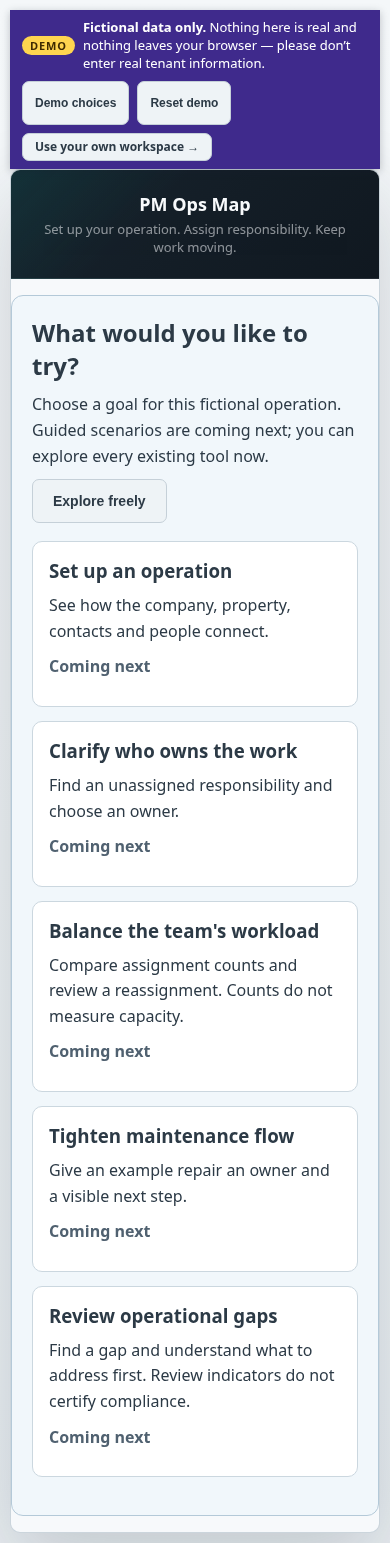
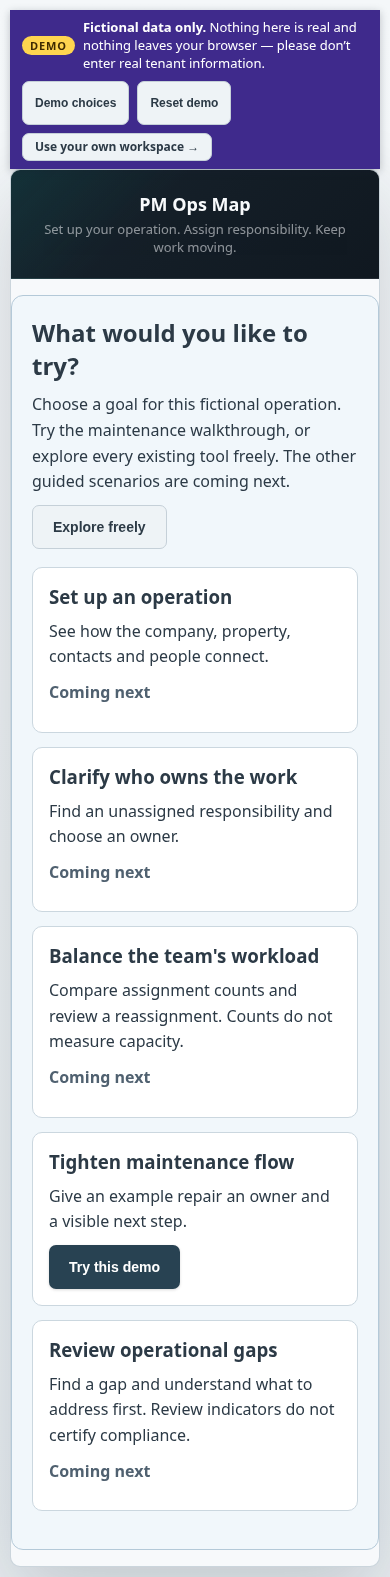
Add guided maintenance demo with saved-state checks

Changed region(s): [[0.0308, 0.0, 0.9846, 0.5599], [0.1231, 0.5911, 0.8923, 0.9644]]

diff --git a/js/demoTour.js b/js/demoTour.js
@@ -1,19 +1,20 @@
 import { DEMO_MODE } from './demoMode.js';
 import { DEMO_SCENARIOS } from './demoScenarios.js';
 import { createTourPreferences } from './demoTourPreferences.js';
+import { checkMaintenanceCondition, maintenanceTarget, maintenanceSummary, maintenanceIssue } from './maintenanceDemo.js';
 import { escapeHtml } from './utils.js';
 /** @typedef {import('./demoScenarios.js').DemoScenario} Scenario */
 /** A navigation/state adapter keeps this controller independent of app.js and business mutations.
- * @param {{root:HTMLElement, enabled?:boolean, scenarios?:Scenario[], preferences?:ReturnType<typeof createTourPreferences>, navigate:(view:string)=>void, check?:(condition:string)=>boolean}} options
+ * @param {{root:HTMLElement, enabled?:boolean, scenarios?:Scenario[], preferences?:ReturnType<typeof createTourPreferences>, navigate:(view:string)=>void, check?:(condition:string)=>boolean, target?:(step:import('./demoScenarios.js').DemoStep)=>Element|null, summary?:()=>string, issue?:(condition:string)=>string}} options
  */
-export function createDemoTour({root,enabled=DEMO_MODE,scenarios=DEMO_SCENARIOS,preferences=createTourPreferences(),navigate,check=()=>false}) {
+export function createDemoTour({root,enabled=DEMO_MODE,scenarios=DEMO_SCENARIOS,preferences=createTourPreferences(),navigate,check=()=>false,target=step=>step.target?document.getElementById(step.target):null,summary=()=>'',issue=()=>''}) {
   let mode='chooser', paused=false, navigating=false;
   /** @type {Scenario | undefined} */ let active;
   let index=0;
   /** @type {Element | null} */ let highlighted=null;
-  const button = (action='',text='',disabled=false) => `<button type="button" class="btn btn-secondary" data-tour="${action}" ${disabled?'disabled':''}>${escapeHtml(text)}</button>`;
-  function cleanup() { highlighted?.classList.remove('demo-tour-target');highlighted=null; }
-  function focusHeading() { root.querySelector('h2')?.focus({preventScroll:true});root.scrollIntoView?.({block:'start',behavior:'instant'}); }
+  const button = (action='',text='',disabled=false) => `<button type="button" class="btn ${action==='next'||action==='resume'||action.startsWith('start:')?'btn-primary':'btn-secondary'}" data-tour="${action}" ${disabled?'disabled':''}>${escapeHtml(text)}</button>`;
+  function cleanup() { const hint=document.getElementById('demo-wo-guidance');if(hint){hint.hidden=true;hint.textContent='';} highlighted?.classList.remove('demo-tour-target');highlighted=null; }
+  function focusHeading() { root.style.scrollMarginTop=`${(document.getElementById('demo-banner')?.getBoundingClientRect().height||0)+12}px`;root.querySelector('h2')?.focus({preventScroll:true});root.scrollIntoView?.({block:'start',behavior:'instant'}); }
   function render() {
     if (!enabled) return;
     cleanup();root.hidden=false;
@@ -23,20 +24,27 @@ export function createDemoTour({root,enabled=DEMO_MODE,scenarios=DEMO_SCENARIOS,
     const resume=scenarios.find(s=>s.available && s.id===prefs.selected && prefs.checkpoints[s.id]);
     const warning=preferences.volatile?'<p role="status">This browser could not save tour progress. It may not survive a reload.</p>':'';
     if(mode==='chooser') {
-      root.innerHTML=`<h2 tabindex="-1">What would you like to try?</h2><p>Choose a goal for this fictional operation. Guided scenarios are coming next; you can explore every existing tool now.</p>${warning}${resume?button('resume',`Resume ${resume.title}`):''}${button('explore','Explore freely')}<div class="demo-scenario-grid">${scenarios.map(s=>`<article><h3>${escapeHtml(s.title)}</h3><p>${escapeHtml(s.description)}</p>${s.available&&s.steps.length?button(`start:${s.id}`,'Try this demo'):'<p class="demo-coming">Coming next</p>'}</article>`).join('')}</div>`;
+      root.innerHTML=`<h2 tabindex="-1">What would you like to try?</h2><p>Choose a goal for this fictional operation. Try the maintenance walkthrough, or explore every existing tool freely. The other guided scenarios are coming next.</p>${warning}${resume?button('resume',`${prefs.completed?.includes(resume.id)?'Review':'Resume'} ${resume.title}`):''}${button('explore','Explore freely')}<div class="demo-scenario-grid">${scenarios.map(s=>`<article><h3>${escapeHtml(s.title)}</h3><p>${escapeHtml(s.description)}</p>${s.available&&s.steps.length?button(`start:${s.id}`,'Try this demo'):'<p class="demo-coming">Coming next</p>'}</article>`).join('')}</div>`;
       return;
     }
     if(mode==='explore') {
       root.innerHTML=`<h2 tabindex="-1">Explore the fictional operation</h2><p>Your demo edits stay separate from your real workspace. Use Demo choices to return here and choose a goal.</p>${warning}${button('choices','Demo choices')}`;
       return;
     }
+    if(mode==='finished') {
+      root.innerHTML=`<h2 tabindex="-1">Demo walkthrough complete</h2><p>You reviewed how a named owner and a visible stage help the team follow a repair. This is a learning acknowledgement, not proof that work was performed.</p><p>${escapeHtml(summary())}</p>${warning}${button('choices','Try another demo')}${button('restart','Restart guidance (keep demo edits)')}<a class="btn btn-secondary" href="index.html">Set up my operation</a>${button('explore','Explore freely')}`;
+      return;
+    }
     const step=active?.steps[index];
     if (!active || !step) {mode='chooser';render();return;}
-    const target=step.target?document.getElementById(step.target):null;
-    const missing=!!step.target&&!target;
+    const element=target(step);
+    const missing=!!step.target&&!element;
     const satisfied=!step.condition||check(step.condition);
-    if (!paused && target) {target.classList.add('demo-tour-target');highlighted=target;}
-    root.innerHTML=`<h2 tabindex="-1">${escapeHtml(active.title)}</h2><p role="status">Step ${index+1} of ${active.steps.length}${paused?' · Paused':''}</p><h3>${escapeHtml(step.title)}</h3><p>${escapeHtml(step.why)}</p><p><strong>Notice:</strong> ${escapeHtml(step.notice)}</p><p><strong>Try:</strong> ${escapeHtml(step.action)}</p><p><strong>Expected result:</strong> ${escapeHtml(step.result)}</p>${warning}${missing?'<p role="status">The example control is unavailable. Return to this step or explore freely. Reset demo restores fictional examples and discards demo edits.</p>':''}${step.condition&&satisfied?'<p role="status">This condition is already satisfied in the current demo.</p>':''}<div class="demo-tour-actions">${button('back','Back',index===0)}${button('next',index===active.steps.length-1?'Finish':'Next',paused||missing||!satisfied)}${paused?button('return','Return to this step'):''}${target&&!paused?button('locate','Show highlighted control'):''}${button('explore','Explore freely')}${button('restart','Restart guidance (keep demo edits)')}${button('choices','Demo choices')}</div><p>Back and Restart guidance do not undo demo edits.</p>`;
+    if (!paused && element) {element.classList.add('demo-tour-target');highlighted=element;}
+    const hint=document.getElementById('demo-wo-guidance');
+    if(!paused && active.id==='maintenance' && step.id==='assign-repair' && element?.id==='wo-assignee' && hint){hint.hidden=false;hint.textContent='Demo: choose a current roster member, then save this repair. Cancel does not save your changes.';}
+    const recovery=active.steps.findIndex(s=>s.condition&&!check(s.condition));
+    root.innerHTML=`<h2 tabindex="-1">${escapeHtml(active.title)}</h2><p role="status">Step ${index+1} of ${active.steps.length}${paused?' · Paused':''}</p><h3>${escapeHtml(step.title)}</h3><p>${escapeHtml(step.why)}</p><p><strong>Notice:</strong> ${escapeHtml(step.notice)}</p><p><strong>Try:</strong> ${escapeHtml(step.action)}</p>${warning}${index===active.steps.length-1?`<p>${escapeHtml(summary())}</p>`:''}${step.condition&&issue(step.condition)?`<p role="status">${escapeHtml(issue(step.condition))}</p>`:''}${missing?'<p role="status">The example control is unavailable. Return to this step or explore freely. Reset demo restores fictional examples and discards demo edits.</p>':''}${step.condition&&step.condition!=='repair-exists'&&satisfied?'<p role="status">This condition is already satisfied in the current demo.</p>':''}<div class="demo-tour-actions">${button('back','Back',index===0)}${button('next',index===active.steps.length-1?'Finish':'Next',paused||missing||!satisfied)}${paused?button('return','Return to this step'):''}${element&&!paused?button('locate','Show highlighted control'):''}${recovery>=0&&recovery<index?button('recover',`Return to ${active.steps[recovery].title.toLowerCase()}`):''}</div><details class="demo-tour-options"><summary>Details and tour options</summary><p><strong>Expected result:</strong> ${escapeHtml(step.result)}</p><p>${escapeHtml(summary())}</p>${button('explore','Explore freely')}${button('restart','Restart guidance (keep demo edits)')}${button('choices','Demo choices')}<p>Back and Restart guidance do not undo demo edits.</p></details>`;
   }
   function save() {
     if(!active)return;
@@ -64,13 +72,15 @@ export function createDemoTour({root,enabled=DEMO_MODE,scenarios=DEMO_SCENARIOS,
     if(action==='resume'){const id=preferences.read().selected;if(id)start(id,true);return;}
     if(action==='locate'){highlighted?.scrollIntoView?.({block:'center',behavior:'instant'});return;}
     if(action==='return')return enterStep();
+    if(action==='recover'&&active){const earliest=active.steps.findIndex(s=>s.condition&&!check(s.condition));if(earliest>=0){index=earliest;enterStep();}return;}
     if(action==='restart'){index=0;return enterStep();}
     if(action==='back'&&index>0){index--;return enterStep();}
     if(action==='next'&&active){
       const step=active.steps[index];
-      if(paused||(step.condition&&!check(step.condition))||(step.target&&!document.getElementById(step.target)))return;
+      if(paused||(step.condition&&!check(step.condition))||(step.target&&!target(step)))return;
       if(index<active.steps.length-1){index++;return enterStep();}
-      mode='chooser';render();focusHeading();return;
+      const p=preferences.read();p.completed=[...new Set([...(p.completed||[]),active.id])];preferences.write(p);
+      mode='finished';render();focusHeading();return;
     }
     if(action==='explore'||action==='choices'){mode=action==='explore'?'explore':'chooser';paused=true;render();focusHeading();}
   }
@@ -90,7 +100,7 @@ let tour;
 export function initDemoTour(navigate) {
   if(!DEMO_MODE)return;
   const root=document.getElementById('demo-tour');if(!root)return;
-  tour?.destroy();tour=createDemoTour({root,navigate});
+  tour?.destroy();tour=createDemoTour({root,navigate,check:checkMaintenanceCondition,target:maintenanceTarget,summary:maintenanceSummary,issue:maintenanceIssue});
 }
 export function demoTourViewChanged(){tour?.viewChanged();}
 export function refreshDemoTour(){tour?.refresh();}

diff --git a/e2e/maintenance-demo.spec.js b/e2e/maintenance-demo.spec.js
@@ -1,0 +1,58 @@
+import { test, expect } from '@playwright/test';
+const panel=page=>page.locator('#demo-tour');
+const card=page=>page.locator('#wo-card-demo-wo-1');
+const next=page=>panel(page).getByRole('button',{name:'Next',exact:true});
+async function start(page){await page.goto('index.html?demo=1');await panel(page).locator('article').filter({hasText:'Tighten maintenance flow'}).getByRole('button',{name:'Try this demo'}).click();}
+async function assign(page,owner='Marcus Reyes') {await card(page).getByRole('button',{name:'Edit',exact:true}).click();await page.locator('#wo-assignee').selectOption(owner);await page.locator('#wo-submit-btn').click();}
+test('phone: cancel is not completion, saved assignment and scheduling finish without closing a repair',async({page})=>{
+ await page.addInitScript(()=>localStorage.setItem('pm-ops-company-name','Real Company'));
+ await page.setViewportSize({width:390,height:844});await start(page);await expect(panel(page)).toContainText('Step 1 of 5');
+ await expect(page.locator('#workorders-view')).toHaveClass(/active/);await next(page).click();await expect(next(page)).toBeDisabled();
+ await card(page).getByRole('button',{name:'Edit',exact:true}).click();await page.locator('#wo-assignee').selectOption('Marcus Reyes');
+ await expect(page.locator('#demo-wo-guidance')).toBeVisible();await expect(page.locator('#wo-assignee')).toHaveClass(/demo-tour-target/);
+ await page.locator('#wo-modal').getByRole('button',{name:'Cancel',exact:true}).click();await expect(next(page)).toBeDisabled();
+ await assign(page);await expect(next(page)).toBeEnabled();await next(page).click();await expect(next(page)).toBeDisabled();
+ await card(page).getByRole('button',{name:/Scheduled/}).click();await expect(next(page)).toBeEnabled();
+ await next(page).click();await next(page).click();await panel(page).getByRole('button',{name:'Finish',exact:true}).click();
+ await expect(panel(page)).toContainText('Demo walkthrough complete');await expect(panel(page)).toContainText('Status: Scheduled');
+ expect(await page.evaluate(()=>JSON.parse(localStorage.getItem('pm-ops-demo-tour-v1')).completed)).toEqual(['maintenance']);
+ expect(await page.evaluate(()=>localStorage.getItem('pm-ops-company-name'))).toBe('Real Company');
+ expect(await page.evaluate(()=>document.documentElement.scrollWidth<=innerWidth)).toBe(true);
+ await panel(page).getByRole('button',{name:'Try another demo'}).click();await expect(panel(page).getByRole('button',{name:'Review Tighten maintenance flow'})).toBeVisible();
+ await panel(page).getByRole('button',{name:'Review Tighten maintenance flow'}).click();
+ await panel(page).getByRole('button',{name:'Finish',exact:true}).click();
+ await panel(page).getByRole('link',{name:'Set up my operation'}).click();
+ await expect(page.locator('#company-heading')).toHaveText('REAL COMPANY');
+ await expect(panel(page)).toBeHidden();
+});
+test('reload and navigation pause preserve progress; reversed assignment blocks finish and recovery works',async({page})=>{
+ await start(page);await next(page).click();await assign(page);await next(page).click();
+ await page.reload();await panel(page).getByRole('button',{name:'Resume Tighten maintenance flow'}).click();await expect(panel(page)).toContainText('Step 3 of 5');
+ await page.locator('#portfolio-tab').click();await expect(panel(page)).toContainText('Paused');await expect(page.locator('.demo-tour-target')).toHaveCount(0);
+ await panel(page).getByRole('button',{name:'Return to this step'}).click();await card(page).getByRole('button',{name:/Scheduled/}).click();
+ await next(page).click();await next(page).click();await assign(page,'UNASSIGNED');
+ await expect(panel(page).getByRole('button',{name:'Finish',exact:true})).toBeDisabled();
+ await panel(page).getByRole('button',{name:'Return to give it an owner'}).click();await expect(panel(page)).toContainText('Step 2 of 5');
+ await assign(page);await next(page).click();await expect(panel(page)).toContainText('already satisfied');
+ await panel(page).locator('summary').click();
+ await panel(page).getByRole('button',{name:'Restart guidance (keep demo edits)'}).click();await expect(panel(page)).toContainText('Step 1 of 5');
+ await panel(page).locator('summary').click();
+ await expect(panel(page)).toContainText('Owner: Marcus Reyes');await expect(panel(page)).toContainText('Status: Scheduled');
+});
+test('missing example explains recovery; canceled reset preserves data and confirmed reset clears progress',async({page})=>{
+ await start(page);await next(page).click();page.on('dialog',d=>d.accept());await card(page).getByRole('button',{name:'✕',exact:true}).click();
+ await expect(panel(page)).toContainText('example repair is missing');await expect(next(page)).toBeDisabled();
+ page.removeAllListeners('dialog');page.on('dialog',d=>d.dismiss());await page.getByRole('button',{name:'Reset demo',exact:true}).click();
+ await expect(panel(page)).toContainText('Step 2 of 5');
+ page.removeAllListeners('dialog');page.on('dialog',d=>d.accept());await page.getByRole('button',{name:'Reset demo',exact:true}).click();
+ await expect(panel(page)).toContainText('What would you like to try?');
+ expect(await page.evaluate(()=>localStorage.getItem('pm-ops-demo-tour-v1'))).toBeNull();
+});
+test('a full JSON import clears active guidance and returns to the chooser',async({page},info)=>{
+ page.on('dialog',d=>d.accept());await start(page);await next(page).click();await assign(page);
+ const pending=page.waitForEvent('download');await page.locator('.stats-actions').getByRole('button',{name:/Export JSON/}).click();
+ const file=info.outputPath('demo.json');await (await pending).saveAs(file);
+ await page.setInputFiles('#import-file-input',file);await page.locator('#import-confirm-btn').click();
+ await expect(panel(page)).toContainText('What would you like to try?');
+ expect(await page.evaluate(()=>localStorage.getItem('pm-ops-demo-tour-v1'))).toBeNull();
+});

diff --git a/js/demoScenarios.js b/js/demoScenarios.js
@@ -1,10 +1,16 @@
 /** @typedef {{id:string, title:string, why:string, notice:string, action:string, result:string, view:string, target?:string, condition?:string}} DemoStep */
 /** @typedef {{id:string, title:string, description:string, available:boolean, steps:DemoStep[]}} DemoScenario */
-/** Only completed, verified scenarios become available. Phase 3 supplies maintenance steps. @type {DemoScenario[]} */
+/** Only implemented scenarios become available; the other goals remain planned. @type {DemoScenario[]} */
 export const DEMO_SCENARIOS = [
   {id:'operation',title:'Set up an operation',description:'See how the company, property, contacts and people connect.',available:false,steps:[]},
   {id:'ownership',title:'Clarify who owns the work',description:'Find an unassigned responsibility and choose an owner.',available:false,steps:[]},
   {id:'workload',title:"Balance the team's workload",description:'Compare assignment counts and review a reassignment. Counts do not measure capacity.',available:false,steps:[]},
-  {id:'maintenance',title:'Tighten maintenance flow',description:'Give an example repair an owner and a visible next step.',available:false,steps:[]},
+  {id:'maintenance',title:'Tighten maintenance flow',description:'Give an example repair an owner and a visible next step.',available:true,steps:[
+    {id:'understand-intake',title:'See the problem',why:'Start here because a repair needs a clear owner and a visible next step.',notice:'This fictional no-hot-water report is waiting for assignment.',action:'Read the example repair, then choose Next.',result:'You can identify the repair and its current stage.',view:'workorders',target:'wo-card-demo-wo-1',condition:'repair-exists'},
+    {id:'assign-repair',title:'Give it an owner',why:'An unassigned repair has no named person responsible for following it through.',notice:'Marcus Reyes is the example maintenance contact. The app does not verify availability or qualifications.',action:'Open Edit on this repair, choose a current roster member, and save.',result:'The saved repair shows its owner. An unsaved selection does not count.',view:'workorders',target:'wo-card-demo-wo-1',condition:'repair-assigned'},
+    {id:'schedule-repair',title:'Make the next stage visible',why:'A visible stage helps the team understand what happens next.',notice:'For this fictional exercise, assume access and timing have been agreed.',action:'Use the repair’s Scheduled action to move it forward.',result:'The repair appears under Scheduled. This does not contact anyone or book a visit.',view:'workorders',target:'wo-card-demo-wo-1',condition:'repair-scheduled'},
+    {id:'follow-through',title:'Understand follow-through',why:'A status records what you selected; follow-up still requires real work.',notice:'Coordinate access, follow up, and verify the repair before marking it completed.',action:'Review the current owner and status, then choose Next.',result:'You understand the follow-up required. No repair needs to be closed for this tour.',view:'workorders',target:'wo-card-demo-wo-1',condition:'repair-scheduled'},
+    {id:'review-result',title:'Review the result',why:'Ownership and a visible stage make the repair easier to follow.',notice:'The current example owner and status are shown below.',action:'Review the result and choose Finish.',result:'This example has not dispatched a technician or verified a repair. Real urgency and response rules remain your responsibility.',view:'workorders',target:'wo-card-demo-wo-1',condition:'repair-scheduled'},
+  ]},
   {id:'gaps',title:'Review operational gaps',description:'Find a gap and understand what to address first. Review indicators do not certify compliance.',available:false,steps:[]},
 ];

diff --git a/js/maintenanceDemo.js b/js/maintenanceDemo.js
@@ -1,0 +1,42 @@
+import { workOrders, teamData } from './state.js';
+/** Read-only adapters: the tour never changes operational records. */
+export const MAINTENANCE_DEMO_ID = 'demo-wo-1';
+const repair = () => workOrders.find(w=>w.id===MAINTENANCE_DEMO_ID);
+export function maintenanceAssigned() {
+  const order=repair();
+  return !!order && order.assignee!=='UNASSIGNED' && teamData.employees.some(p=>p.name===order.assignee);
+}
+/** @param {string} condition */
+export function checkMaintenanceCondition(condition) {
+  if(condition==='repair-exists')return !!repair();
+  if(condition==='repair-assigned')return maintenanceAssigned();
+  if(condition==='repair-scheduled')return maintenanceAssigned() && ['scheduled','in-progress','completed'].includes(repair()?.status||'');
+  return false;
+}
+/** @param {string} condition */
+export function maintenanceIssue(condition) {
+  if(!repair())return 'The example repair is missing. Explore freely, try another demo, or use Reset demo to restore the examples. Reset discards all demo edits.';
+  if(condition!=='repair-exists'&&!teamData.employees.length)return 'The demo roster is empty. Add a person in Assign Owners while exploring freely, or confirm Reset demo to restore the examples.';
+  if(condition==='repair-scheduled'&&!maintenanceAssigned())return 'This repair needs a current roster owner. Return to assignment before continuing.';
+  if(condition==='repair-assigned'&&!maintenanceAssigned())return 'Choose a current roster member and save the work order. An unsaved selection does not count.';
+  if(condition==='repair-scheduled'&&!checkMaintenanceCondition(condition))return 'Move this example to Scheduled before continuing. Later stages also satisfy this step; no repair needs to be closed.';
+  return '';
+}
+export function maintenanceSummary() {
+  const order=repair();
+  if(!order)return 'The example repair is no longer present.';
+/** @type {Record<string,string>} */
+  const labels={'submitted':'Submitted','scheduled':'Scheduled','in-progress':'In Progress','completed':'Completed'};
+  return `Current example: ${order.title}. Owner: ${order.assignee==='UNASSIGNED'?'Unassigned':order.assignee}. Status: ${labels[order.status]||order.status}.`;
+}
+/** @param {import('./demoScenarios.js').DemoStep} step */
+export function maintenanceTarget(step) {
+  const card=document.getElementById(`wo-card-${MAINTENANCE_DEMO_ID}`);
+  const modal=document.getElementById('wo-modal');
+  if(step.id==='assign-repair') {
+    if(modal?.classList.contains('visible')&&modal.dataset.workOrderId===MAINTENANCE_DEMO_ID)return document.getElementById('wo-assignee');
+    return card?.querySelector('.wo-edit-btn')||null;
+  }
+  if(step.id==='schedule-repair')return card?.querySelector('.wo-advance-btn')||card;
+  return card;
+}

diff --git a/js/__tests__/maintenance-demo.test.js b/js/__tests__/maintenance-demo.test.js
@@ -1,0 +1,24 @@
+import { beforeEach, test, expect } from 'vitest';
+import { setWorkOrders, setTeamData, workOrders } from '../state.js';
+import { checkMaintenanceCondition, maintenanceIssue, maintenanceSummary } from '../maintenanceDemo.js';
+beforeEach(()=>{setTeamData({employees:[{name:'Marcus Reyes',hex:'#112233',affinities:[]}]});setWorkOrders([{id:'demo-wo-1',title:'Example repair',status:'submitted',assignee:'UNASSIGNED'}]);});
+test('only an existing record and current roster owner satisfy assignment',()=>{
+ expect(checkMaintenanceCondition('repair-exists')).toBe(true);expect(checkMaintenanceCondition('repair-assigned')).toBe(false);
+ workOrders[0].assignee='Removed person';expect(checkMaintenanceCondition('repair-assigned')).toBe(false);
+ workOrders[0].assignee='Marcus Reyes';expect(checkMaintenanceCondition('repair-assigned')).toBe(true);
+ expect(checkMaintenanceCondition('repair-scheduled')).toBe(false);
+});
+test('later stages count without requiring closure; reversal invalidates dependent steps',()=>{
+ workOrders[0].assignee='Marcus Reyes';for(const status of ['scheduled','in-progress','completed']){workOrders[0].status=status;expect(checkMaintenanceCondition('repair-scheduled')).toBe(true);}
+ workOrders[0].assignee='UNASSIGNED';expect(checkMaintenanceCondition('repair-scheduled')).toBe(false);
+ expect(maintenanceIssue('repair-scheduled')).toContain('Return to assignment');
+});
+test('missing records and empty rosters explain recovery without reseeding',()=>{
+ setTeamData({employees:[]});expect(maintenanceIssue('repair-assigned')).toContain('roster is empty');
+ setWorkOrders([]);expect(checkMaintenanceCondition('repair-exists')).toBe(false);expect(maintenanceIssue('repair-exists')).toContain('Reset discards');
+ expect(maintenanceSummary()).toContain('no longer present');expect(workOrders).toEqual([]);
+});
+test('completion history validates only available scenario IDs',async()=>{
+ const {sanitizeTourPreferences}=await import('../demoTourPreferences.js');
+ expect(sanitizeTourPreferences({version:1,completed:['maintenance','unknown','ownership','maintenance']} ).completed).toEqual(['maintenance']);
+});

diff --git a/e2e/release-artifact.spec.js b/e2e/release-artifact.spec.js
@@ -94,9 +94,24 @@ test('the extracted demo opens its chooser and supports exploration without chan
   const before=await page.evaluate(()=>Object.fromEntries(Object.entries(localStorage)));
   await page.goto(`${entry()}?demo=1`);
   await expect(page.getByRole('heading',{name:'What would you like to try?'})).toBeVisible();
-  await expect(page.locator('#demo-tour').getByText('Coming next',{exact:true})).toHaveCount(5);
+  await expect(page.locator('#demo-tour').getByText('Coming next',{exact:true})).toHaveCount(4);
   await page.getByRole('button',{name:'Explore freely',exact:true}).click();
   await page.locator('#wo-tab').click();await expect(page.locator('#workorders-view')).toHaveClass(/active/);
+  await page.locator('#demo-choices').click();
+  await page.locator('#demo-tour article').filter({hasText:'Tighten maintenance flow'}).getByRole('button',{name:'Try this demo'}).click();
+  const guidance=page.locator('#demo-tour');const repair=page.locator('#wo-card-demo-wo-1');
+  await guidance.getByRole('button',{name:'Next',exact:true}).click();
+  await repair.getByRole('button',{name:'Edit',exact:true}).click();
+  await page.locator('#wo-assignee').selectOption('Marcus Reyes');await page.locator('#wo-submit-btn').click();
+  await guidance.getByRole('button',{name:'Next',exact:true}).click();
+  await repair.getByRole('button',{name:/Scheduled/}).click();
+  await guidance.getByRole('button',{name:'Next',exact:true}).click();
+  await guidance.getByRole('button',{name:'Next',exact:true}).click();
+  await guidance.getByRole('button',{name:'Finish',exact:true}).click();
+  await expect(guidance).toContainText('Demo walkthrough complete');
+  await expect(guidance).toContainText('Status: Scheduled');
   const after=await page.evaluate(()=>Object.fromEntries(Object.entries(localStorage).filter(([key])=>!key.startsWith('pm-ops-demo-'))));
   expect(after).toEqual(before);
+  await guidance.getByRole('link',{name:'Set up my operation'}).click();
+  await expect(page.locator('#company-heading')).toHaveText('RELEASE VERIFICATION CO');
 });

diff --git a/js/__tests__/demo-tour.test.js b/js/__tests__/demo-tour.test.js
@@ -17,7 +17,7 @@ beforeEach(()=>{
 });
 afterEach(()=>{tour.destroy();vi.restoreAllMocks();});
 test('production catalogue never advertises unfinished playable steps',()=>{
-  expect(DEMO_SCENARIOS).toHaveLength(5);expect(DEMO_SCENARIOS.every(s=>!s.available&&s.steps.length===0)).toBe(true);
+  expect(DEMO_SCENARIOS).toHaveLength(5);expect(DEMO_SCENARIOS.filter(s=>s.available).map(s=>s.id)).toEqual(['maintenance']);expect(DEMO_SCENARIOS.find(s=>s.id==='maintenance').steps).toHaveLength(5);
 });
 test('read and action steps use explicit Next and actual state; restarting keeps edits',()=>{
   click('Try this demo');expect(navigate).toHaveBeenCalledWith('workorders');
@@ -26,7 +26,7 @@ test('read and action steps use explicit Next and actual state; restarting keeps
   expect(root.querySelector('[data-tour="next"]').disabled).toBe(true);
   assigned=true;tour.refresh();expect(root.textContent).toContain('already satisfied');
   click('Restart guidance (keep demo edits)');expect(assigned).toBe(true);expect(root.textContent).toContain('Step 1 of 2');
-  click('Next');click('Finish');expect(root.textContent).toContain('What would you like to try?');
+  click('Next');click('Finish');expect(root.textContent).toContain('Demo walkthrough complete');expect(prefs.read().completed).toContain('fixture');
 });
 test('manual navigation pauses, return restores and Explore freely removes highlights',()=>{
   tour.start('fixture');tour.viewChanged();expect(root.textContent).toContain('Paused');

diff --git a/js/demoTourPreferences.js b/js/demoTourPreferences.js
@@ -1,15 +1,16 @@
 import { DEMO_MODE } from './demoMode.js';
 import { DEMO_TOUR_KEY } from './storage.js';
 import { DEMO_SCENARIOS } from './demoScenarios.js';
-/** @typedef {{version:1, selected?:string, checkpoints:Record<string,string>}} TourPreferences */
+/** @typedef {{version:1, selected?:string, checkpoints:Record<string,string>, completed?:string[]}} TourPreferences */
 /** @returns {TourPreferences} */
 const blank = () => ({version:1,checkpoints:{}});
 /** @param {unknown} value @param {import('./demoScenarios.js').DemoScenario[]} scenarios @returns {TourPreferences} */
 export function sanitizeTourPreferences(value, scenarios = DEMO_SCENARIOS) {
   const out = blank();
   if (!value || typeof value !== 'object' || !('version' in value) || value.version !== 1) return out;
-  const raw = /** @type {{selected?:unknown,checkpoints?:unknown}} */ (value);
+  const raw = /** @type {{selected?:unknown,checkpoints?:unknown,completed?:unknown}} */ (value);
   for (const scenario of scenarios.filter(s=>s.available && s.steps.length)) {
+    if (Array.isArray(raw.completed) && raw.completed.includes(scenario.id)) (out.completed ||= []).push(scenario.id);
     if (raw.selected === scenario.id) out.selected = scenario.id;
     if (raw.checkpoints && typeof raw.checkpoints === 'object' && Object.hasOwn(raw.checkpoints,scenario.id)) {
       const step = /** @type {Record<string,unknown>} */ (raw.checkpoints)[scenario.id];

diff --git a/css/style.css b/css/style.css
@@ -5185,3 +5185,11 @@ body[data-ops-focus="compliance"] {
 .demo-tour-target { outline: 3px solid #155e86; outline-offset: 4px; }
 .demo-choosing .content, .demo-choosing #save-toast, .demo-choosing #nav-tabs, .demo-choosing #controls, .demo-choosing .stats, .demo-choosing #nav-toggle-btn { display: none !important; }
 .demo-mode #operation-setup, .demo-mode #welcome-guide, .demo-guided #launch-plan { display: none !important; }
+.demo-modal-guidance { padding: 12px; margin: 12px 0; border-left: 4px solid #155e86; background: #f1f7fb; line-height: 1.5; }
+.demo-modal-guidance[hidden] { display: none; }
+.demo-mode .wo-card, .demo-mode #wo-assignee { scroll-margin-top: 180px; }
+/* Keep work-order actions reachable with a phone keyboard or short viewport. */
+.wo-modal-card { max-height: calc(100vh - 40px); max-height: calc(100dvh - 40px); overflow-y: auto; overscroll-behavior: contain; }
+.demo-tour-options { margin-top: 14px; }
+.demo-tour-options summary { min-height: 44px; cursor: pointer; padding: 10px 0; font-weight: 600; }
+.demo-tour-options .btn { margin: 4px 6px 4px 0; }

diff --git a/js/views/workorders.js b/js/views/workorders.js
@@ -175,7 +175,9 @@ function openWorkOrderModal(wo = null) {
   document.getElementById('wo-priority').value = wo?.priority || 'medium';
   document.getElementById('wo-assignee').value = wo?.assignee || 'UNASSIGNED';
 
+  if (DEMO_MODE) modal.dataset.workOrderId = wo?.id || '';
   modal.classList.add('visible');
+  refreshDemoTour();
   setTimeout(() => document.getElementById('wo-property').focus(), 50);
 }
 
@@ -183,6 +185,8 @@ export function closeWorkOrderModal() {
   const modal = document.getElementById('wo-modal');
   if (modal) modal.classList.remove('visible');
   editingWorkOrderId = null;
+  if (DEMO_MODE && modal) delete modal.dataset.workOrderId;
+  refreshDemoTour();
 }
 
 const WO_FIELD_LIMITS = { property: 200, unit: 50, tenant: 200, title: 300, notes: 2000, vendor: 200 };

diff --git a/e2e/demo-tour.spec.js b/e2e/demo-tour.spec.js
@@ -5,8 +5,8 @@ test('phone chooser is the demo entry; all unfinished scenarios are clearly unav
   const panel=page.locator('#demo-tour');
   await expect(panel.getByRole('heading',{name:'What would you like to try?'})).toBeVisible();
   await expect(panel.locator('article')).toHaveCount(5);
-  await expect(panel.getByText('Coming next',{exact:true})).toHaveCount(5);
-  await expect(panel.getByRole('button',{name:'Try this demo'})).toHaveCount(0);
+  await expect(panel.getByText('Coming next',{exact:true})).toHaveCount(4);
+  await expect(panel.getByRole('button',{name:'Try this demo'})).toHaveCount(1);
   await expect(page.locator('#operation-setup')).toBeHidden();
   await expect(page.locator('#nav-tabs')).toBeHidden();
   await expect(page.locator('#tracking-view')).toBeHidden();

diff --git a/index.html b/index.html
@@ -267,6 +267,7 @@
   <div class="wo-modal-card">
     <div class="onboarding-logo">Work Order</div>
     <h2 id="wo-modal-title" class="onboarding-title">New Work Order</h2>
+    <aside id="demo-wo-guidance" class="demo-modal-guidance" role="status" hidden></aside>
     <div class="wo-form-grid">
       <div class="wo-form-group">
         <label class="wo-form-label" for="wo-property">Property *</label>
